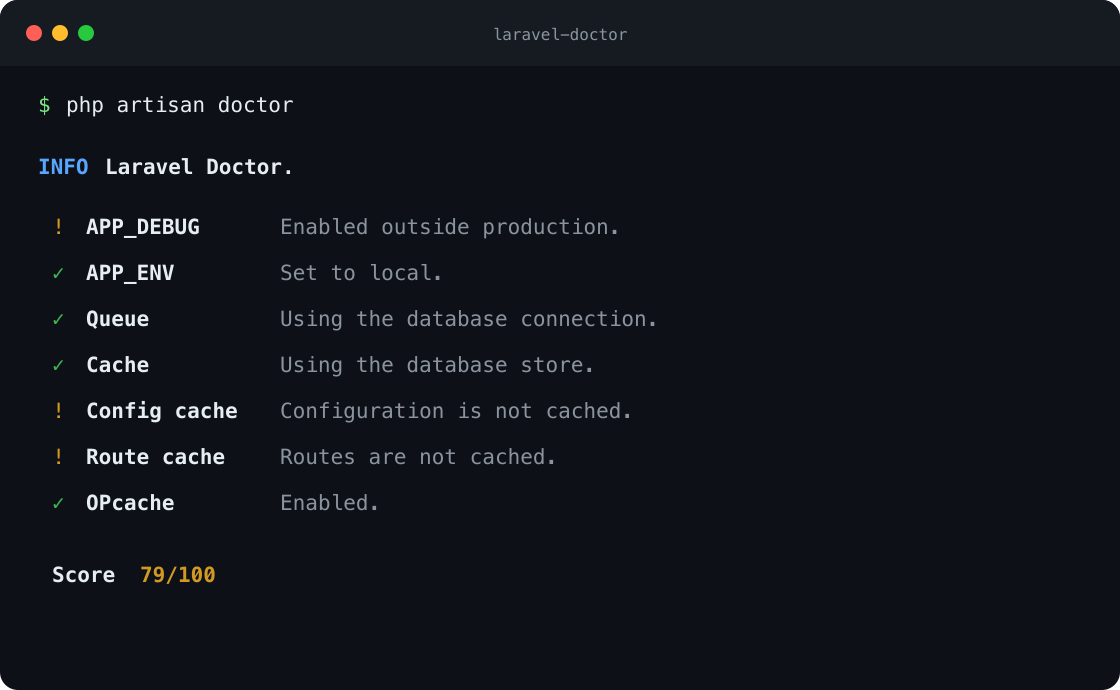
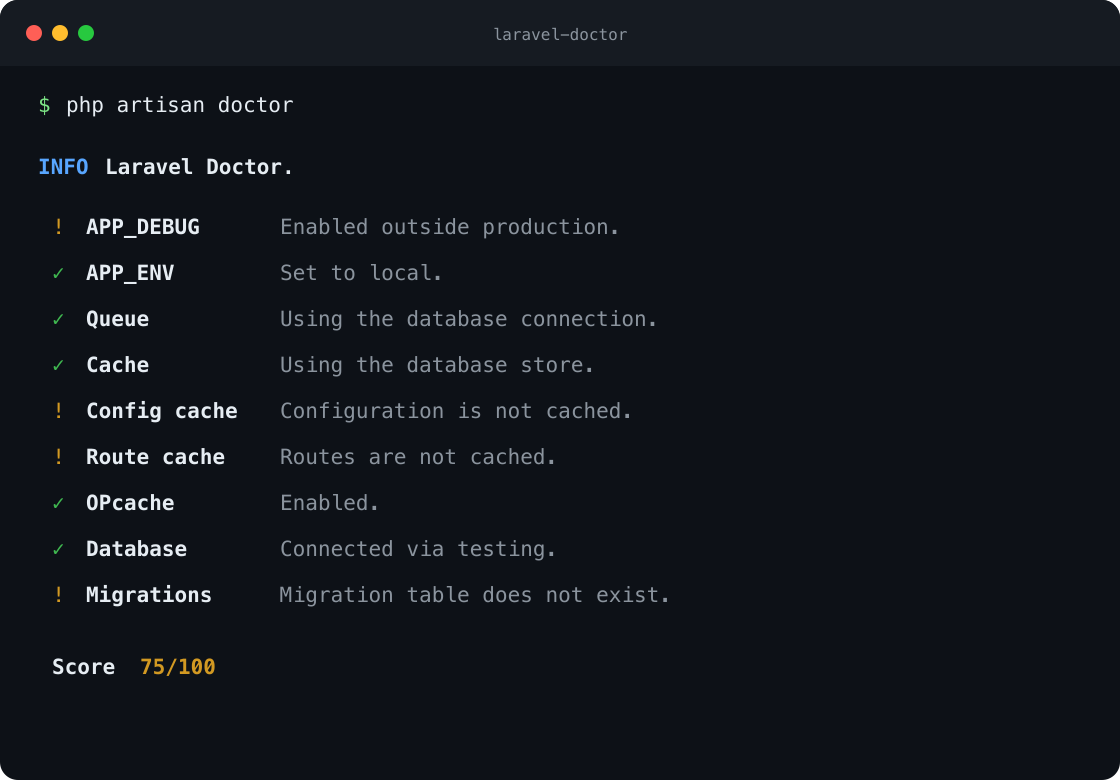
Add CI output and database health checks

diff --git a/src/Commands/DoctorCommand.php b/src/Commands/DoctorCommand.php
@@ -8,13 +8,31 @@ use LaravelDoctor\Enums\CheckStatus;
 
 final class DoctorCommand extends Command
 {
-    protected $signature = 'doctor';
+    protected $signature = 'doctor
+        {--ci : Exit with a failure code when a check fails}
+        {--minimum= : Exit with a failure code when the score is below this value}
+        {--json : Output the report as JSON}';
 
     protected $description = 'Run Laravel application health checks';
 
     public function handle(DoctorRunner $runner): int
     {
-        $report = $runner->run(config('doctor.checks', []));
+        $minimum = $this->minimumScore();
+
+        if ($minimum === false) {
+            return self::INVALID;
+        }
+
+        $report = $runner->run(
+            config('doctor.checks', []),
+            config('doctor.weights', []),
+        );
+
+        if ($this->option('json')) {
+            $this->line(json_encode($report->toArray(), JSON_PRETTY_PRINT | JSON_THROW_ON_ERROR));
+
+            return $this->exitCode($report->hasFailures(), $report->score(), $minimum);
+        }
 
         $this->newLine();
         $this->components->info('Laravel Doctor');
@@ -35,6 +53,32 @@ final class DoctorCommand extends Command
         $color = $score >= 80 ? 'green' : ($score >= 50 ? 'yellow' : 'red');
         $this->line("  Score  <fg={$color};options=bold>{$score}/100</>");
         $this->newLine();
+
+        return $this->exitCode($report->hasFailures(), $score, $minimum);
+    }
+
+    private function minimumScore(): int|false|null
+    {
+        $minimum = $this->option('minimum');
+
+        if ($minimum === null) {
+            return null;
+        }
+
+        if (filter_var($minimum, FILTER_VALIDATE_INT) === false || (int) $minimum < 0 || (int) $minimum > 100) {
+            $this->components->error('The minimum score must be an integer between 0 and 100.');
+
+            return false;
+        }
+
+        return (int) $minimum;
+    }
+
+    private function exitCode(bool $hasFailures, int $score, ?int $minimum): int
+    {
+        if (($this->option('ci') && $hasFailures) || ($minimum !== null && $score < $minimum)) {
+            return self::FAILURE;
+        }
 
         return self::SUCCESS;
     }

diff --git a/src/ValueObjects/DoctorReport.php b/src/ValueObjects/DoctorReport.php
@@ -16,12 +16,35 @@ final readonly class DoctorReport
             return 100;
         }
 
-        $points = $this->results->sum(fn (CheckResult $result): float => match ($result->status) {
+        $points = $this->results->sum(fn (CheckResult $result): float => $result->weight * match ($result->status) {
             CheckStatus::Pass => 1,
             CheckStatus::Warning => 0.5,
             CheckStatus::Fail => 0,
         });
 
-        return (int) round(($points / $this->results->count()) * 100);
+        $maximum = $this->results->sum(fn (CheckResult $result): int => $result->weight);
+
+        return (int) round(($points / $maximum) * 100);
+    }
+
+    public function hasFailures(): bool
+    {
+        return $this->results->contains(
+            fn (CheckResult $result): bool => $result->status === CheckStatus::Fail
+        );
+    }
+
+    /** @return array{score: int, results: array<int, array{name: string, status: string, message: string, weight: int}>} */
+    public function toArray(): array
+    {
+        return [
+            'score' => $this->score(),
+            'results' => $this->results->map(fn (CheckResult $result): array => [
+                'name' => $result->name,
+                'status' => $result->status->value,
+                'message' => $result->message,
+                'weight' => $result->weight,
+            ])->all(),
+        ];
     }
 }

diff --git a/tests/Feature/DoctorCommandTest.php b/tests/Feature/DoctorCommandTest.php
@@ -1,5 +1,6 @@
 <?php
 
+use Illuminate\Support\Facades\Artisan;
 use LaravelDoctor\Contracts\Check;
 use LaravelDoctor\ValueObjects\CheckResult;
 
@@ -21,6 +22,35 @@ it('runs custom checks registered in configuration', function () {
         ->expectsOutputToContain('Healthy')
         ->expectsOutputToContain('100/100')
         ->assertSuccessful();
+});
+
+it('returns machine readable json', function () {
+    config()->set('doctor.checks', [PassingCheck::class]);
+
+    expect(Artisan::call('doctor', ['--json' => true]))->toBe(0);
+
+    $output = json_decode(Artisan::output(), true);
+
+    expect($output['score'])->toBe(100)
+        ->and($output['results'][0]['status'])->toBe('pass');
+});
+
+it('fails in ci mode when a check fails', function () {
+    config()->set('doctor.checks', [FailingCheck::class]);
+
+    $this->artisan('doctor --ci')->assertFailed();
+});
+
+it('fails below the requested minimum score', function () {
+    config()->set('doctor.checks', [PassingCheck::class, FailingCheck::class]);
+
+    $this->artisan('doctor --minimum=80')->assertFailed();
+});
+
+it('rejects an invalid minimum score', function () {
+    $this->artisan('doctor --minimum=101')
+        ->expectsOutputToContain('between 0 and 100')
+        ->assertExitCode(2);
 });
 
 final class PassingCheck implements Check

diff --git a/src/Checks/PendingMigrationsCheck.php b/src/Checks/PendingMigrationsCheck.php
@@ -1,0 +1,35 @@
+<?php
+
+namespace LaravelDoctor\Checks;
+
+use Illuminate\Database\Migrations\Migrator;
+use LaravelDoctor\Contracts\Check;
+use LaravelDoctor\ValueObjects\CheckResult;
+use Throwable;
+
+final readonly class PendingMigrationsCheck implements Check
+{
+    public function __construct(private Migrator $migrator) {}
+
+    public function run(): CheckResult
+    {
+        try {
+            if (! $this->migrator->repositoryExists()) {
+                return CheckResult::warning('Migrations', 'Migration table does not exist.');
+            }
+
+            $paths = array_unique([
+                database_path('migrations'),
+                ...$this->migrator->paths(),
+            ]);
+            $files = $this->migrator->getMigrationFiles($paths);
+            $pending = array_diff(array_keys($files), $this->migrator->getRepository()->getRan());
+
+            return $pending === []
+                ? CheckResult::pass('Migrations', 'No pending migrations.')
+                : CheckResult::fail('Migrations', count($pending).' pending migration(s).');
+        } catch (Throwable $exception) {
+            return CheckResult::fail('Migrations', 'Could not inspect migrations: '.$exception->getMessage());
+        }
+    }
+}

diff --git a/src/DoctorRunner.php b/src/DoctorRunner.php
@@ -12,17 +12,26 @@ final readonly class DoctorRunner
 {
     public function __construct(private Container $container) {}
 
-    /** @param array<int, class-string<Check>> $checks */
-    public function run(array $checks): DoctorReport
+    /**
+     * @param  array<int, class-string<Check>>  $checks
+     * @param  array<class-string<Check>, int>  $weights
+     */
+    public function run(array $checks, array $weights = []): DoctorReport
     {
-        $results = Collection::make($checks)->map(function (string $check) {
+        $results = Collection::make($checks)->map(function (string $check) use ($weights) {
             $instance = $this->container->make($check);
 
             if (! $instance instanceof Check) {
                 throw new InvalidArgumentException("Doctor check [{$check}] must implement ".Check::class.'.');
             }
 
-            return $instance->run();
+            $weight = $weights[$check] ?? 1;
+
+            if (! is_int($weight) || $weight < 1) {
+                throw new InvalidArgumentException("Doctor check weight [{$check}] must be a positive integer.");
+            }
+
+            return $instance->run()->withWeight($weight);
         });
 
         return new DoctorReport($results);

diff --git a/config/doctor.php b/config/doctor.php
@@ -4,7 +4,9 @@ use LaravelDoctor\Checks\AppDebugCheck;
 use LaravelDoctor\Checks\AppEnvironmentCheck;
 use LaravelDoctor\Checks\CacheStoreCheck;
 use LaravelDoctor\Checks\ConfigCacheCheck;
+use LaravelDoctor\Checks\DatabaseConnectionCheck;
 use LaravelDoctor\Checks\OpcacheCheck;
+use LaravelDoctor\Checks\PendingMigrationsCheck;
 use LaravelDoctor\Checks\QueueConnectionCheck;
 use LaravelDoctor\Checks\RouteCacheCheck;
 
@@ -20,5 +22,22 @@ return [
         ConfigCacheCheck::class,
         RouteCacheCheck::class,
         OpcacheCheck::class,
+        DatabaseConnectionCheck::class,
+        PendingMigrationsCheck::class,
+    ],
+
+    /*
+    | More important checks can contribute more heavily to the score.
+    */
+    'weights' => [
+        AppDebugCheck::class => 2,
+        AppEnvironmentCheck::class => 1,
+        QueueConnectionCheck::class => 1,
+        CacheStoreCheck::class => 1,
+        ConfigCacheCheck::class => 1,
+        RouteCacheCheck::class => 1,
+        OpcacheCheck::class => 1,
+        DatabaseConnectionCheck::class => 2,
+        PendingMigrationsCheck::class => 2,
     ],
 ];

diff --git a/tests/Unit/DoctorReportTest.php b/tests/Unit/DoctorReportTest.php
@@ -17,3 +17,28 @@ it('calculates a weighted score', function () {
 it('gives an empty report a perfect score', function () {
     expect((new DoctorReport(new Collection))->score())->toBe(100);
 });
+
+it('applies check weights to the score', function () {
+    $report = new DoctorReport(new Collection([
+        CheckResult::pass('Pass', 'Passed.')->withWeight(3),
+        CheckResult::fail('Fail', 'Failed.'),
+    ]));
+
+    expect($report->score())->toBe(75);
+});
+
+it('serializes its results', function () {
+    $report = new DoctorReport(new Collection([
+        CheckResult::warning('Cache', 'Not cached.')->withWeight(2),
+    ]));
+
+    expect($report->toArray())->toBe([
+        'score' => 50,
+        'results' => [[
+            'name' => 'Cache',
+            'status' => 'warning',
+            'message' => 'Not cached.',
+            'weight' => 2,
+        ]],
+    ]);
+});

diff --git a/src/Checks/DatabaseConnectionCheck.php b/src/Checks/DatabaseConnectionCheck.php
@@ -1,0 +1,25 @@
+<?php
+
+namespace LaravelDoctor\Checks;
+
+use Illuminate\Database\DatabaseManager;
+use LaravelDoctor\Contracts\Check;
+use LaravelDoctor\ValueObjects\CheckResult;
+use Throwable;
+
+final readonly class DatabaseConnectionCheck implements Check
+{
+    public function __construct(private DatabaseManager $database) {}
+
+    public function run(): CheckResult
+    {
+        try {
+            $connection = $this->database->connection();
+            $connection->getPdo();
+
+            return CheckResult::pass('Database', "Connected via {$connection->getName()}.");
+        } catch (Throwable $exception) {
+            return CheckResult::fail('Database', 'Connection failed: '.$exception->getMessage());
+        }
+    }
+}

diff --git a/src/ValueObjects/CheckResult.php b/src/ValueObjects/CheckResult.php
@@ -10,6 +10,7 @@ final readonly class CheckResult
         public string $name,
         public CheckStatus $status,
         public string $message,
+        public int $weight = 1,
     ) {}
 
     public static function pass(string $name, string $message): self
@@ -25,5 +26,10 @@ final readonly class CheckResult
     public static function warning(string $name, string $message): self
     {
         return new self($name, CheckStatus::Warning, $message);
+    }
+
+    public function withWeight(int $weight): self
+    {
+        return new self($this->name, $this->status, $this->message, $weight);
     }
 }

diff --git a/tests/Feature/DatabaseChecksTest.php b/tests/Feature/DatabaseChecksTest.php
@@ -1,0 +1,13 @@
+<?php
+
+use LaravelDoctor\Checks\DatabaseConnectionCheck;
+use LaravelDoctor\Checks\PendingMigrationsCheck;
+use LaravelDoctor\Enums\CheckStatus;
+
+it('checks the default database connection', function () {
+    expect(app(DatabaseConnectionCheck::class)->run()->status)->toBe(CheckStatus::Pass);
+});
+
+it('warns when the migration repository does not exist', function () {
+    expect(app(PendingMigrationsCheck::class)->run()->status)->toBe(CheckStatus::Warning);
+});

diff --git a/README.md b/README.md
@@ -14,8 +14,10 @@ Laravel Doctor
   ✓ Config cache Configuration is cached.
   ! Route cache  Routes are not cached.
   ✓ OPcache      Enabled.
+  ✓ Database     Connected via mysql.
+  ✓ Migrations   No pending migrations.
 
-  Score  93/100
+  Score  96/100
 ```
 
 ## Requirements
@@ -34,6 +36,16 @@ Laravel discovers the service provider automatically. Run the report with:
 ```bash
 php artisan doctor
 ```
+
+Use it in CI or deployments:
+
+```bash
+php artisan doctor --ci
+php artisan doctor --minimum=80
+php artisan doctor --json
+```
+
+`--ci` returns a non-zero exit code when a check fails. `--minimum` enforces a score from 0 to 100. `--json` returns the same report in a machine-readable format.
 
 Publish the configuration when you want to customize the checks:
 
@@ -59,6 +71,17 @@ final class DatabaseCheck implements Check
 ```
 
 The container resolves every check, so constructor injection works as expected. Results can be `pass`, `warning`, or `fail`. Passes earn full score, warnings half score, and failures no score.
+
+## Scoring weights
+
+Published configuration includes a `weights` array keyed by check class. Increase a value when that check should contribute more heavily to the score:
+
+```php
+'weights' => [
+    AppDebugCheck::class => 2,
+    DatabaseConnectionCheck::class => 3,
+],
+```
 
 ## Development
 
